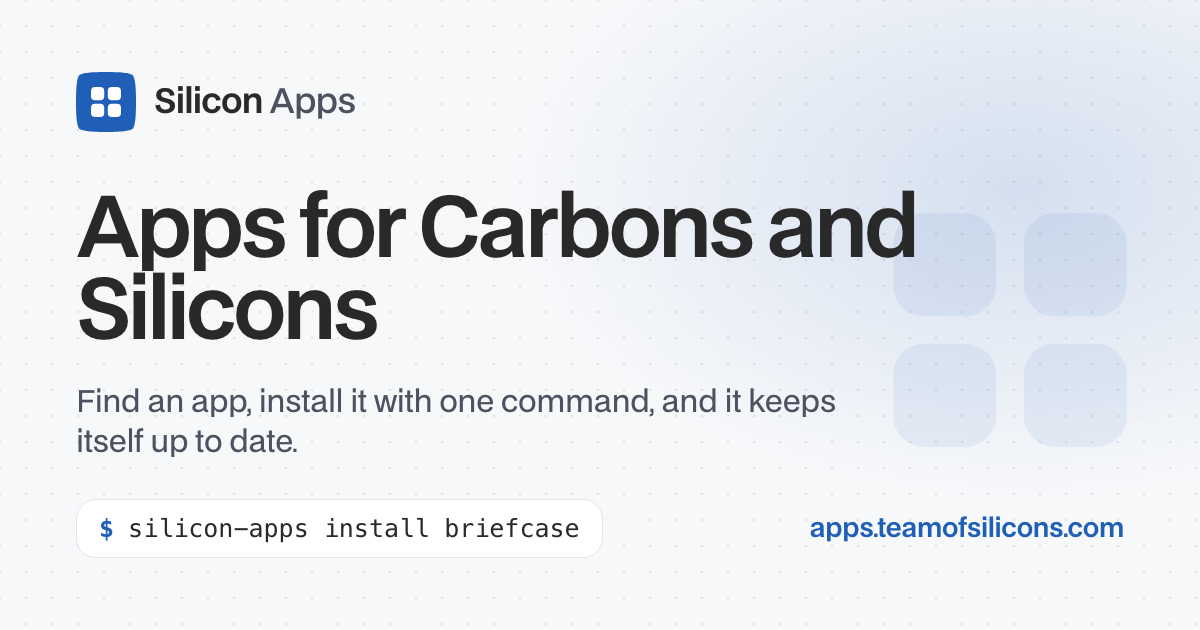
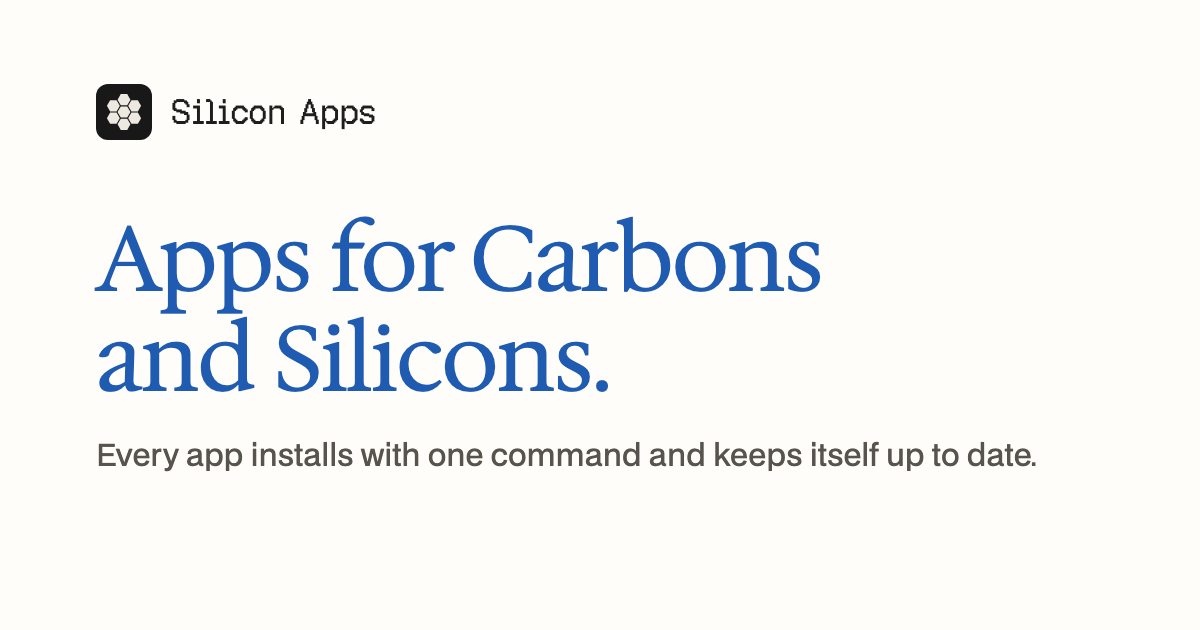
Use the seven-hexagon mark for Silicon Apps
The header glyph, icon.svg, favicon.ico, the PNG and maskable icons, the
store's social image and the per-app social images all use the Carbon's
new mark: seven hexagons, cream on #181818 for icons, ink on paper in the
header.

diff --git a/store/components/site/brand.tsx b/store/components/site/brand.tsx
@@ -1,23 +1,35 @@
 /**
- * The Silicon Apps mark: four app tiles. The header and footer draw the bare glyph in ink beside the wordmark, as
- * Silicon Writings does; BrandMark puts it on a squircle (public/icon.svg and the other icons are the same glyph for the
- * favicon and the home screen). Plain SVG, server-rendered.
+ * The Silicon Apps mark: seven hexagons, one in the middle and six around it. The header draws the bare glyph in ink
+ * beside the wordmark, as Silicon Writings does; BrandMark is the app icon (cream hexagons on #181818), the same
+ * drawing as public/icon.svg and the PNG icons. Plain SVG, server-rendered.
  */
+const HEXAGONS = [
+  "M77 100L88.5 80.0814H111.5L123 100L111.5 119.919H88.5L77 100Z",
+  "M115 122L126.5 102.081H149.5L161 122L149.5 141.919H126.5L115 122Z",
+  "M77 56L88.5 36.0814L111.5 36.0814L123 56L111.5 75.9186H88.5L77 56Z",
+  "M115 78L126.5 58.0814L149.5 58.0814L161 78L149.5 97.9186H126.5L115 78Z",
+  "M39 78L50.5 58.0814L73.5 58.0814L85 78L73.5 97.9186H50.5L39 78Z",
+  "M39 122L50.5 102.081H73.5L85 122L73.5 141.919H50.5L39 122Z",
+  "M77 144L88.5 124.081H111.5L123 144L111.5 163.919H88.5L77 144Z",
+];
+
+/** The seven hexagons alone, in currentColor, cropped to their own bounds. */
 export function BrandGlyph() {
   return (
-    <svg viewBox="8 8 48 48" fill="currentColor" aria-hidden="true" focusable="false">
-      <rect x="15" y="15" width="15" height="15" rx="4.5" />
-      <rect x="34" y="15" width="15" height="15" rx="4.5" />
-      <rect x="15" y="34" width="15" height="15" rx="4.5" />
-      <rect x="34" y="34" width="15" height="15" rx="4.5" />
+    <svg viewBox="36 33 128 134" fill="currentColor" aria-hidden="true" focusable="false">
+      {HEXAGONS.map(d => <path key={d} d={d} />)}
     </svg>
   );
 }
 
+/** The app icon: the hexagons in cream on a #181818 square. */
 export function BrandMark({ className }: { className?: string }) {
   return (
-    <span data-sq="clip" className={className} aria-hidden="true">
-      <BrandGlyph />
-    </span>
+    <svg className={className} viewBox="0 0 200 200" aria-hidden="true" focusable="false">
+      <rect width="200" height="200" fill="#181818" />
+      {HEXAGONS.map(d => <path key={d} d={d} fill="#EDE8E0" />)}
+    </svg>
   );
 }
+
+export { HEXAGONS };

diff --git a/store/lib/og.tsx b/store/lib/og.tsx
@@ -8,6 +8,7 @@
 import { readFile } from "node:fs/promises";
 import { join } from "node:path";
 import { ImageResponse } from "next/og";
+import { HEXAGONS } from "@/components/site/brand";
 import { appsApiUrl } from "./config";
 import { formatCount, formatRating, monogramOf, operatingSystems, truncate } from "./format";
 import type { App } from "./types";
@@ -29,16 +30,12 @@ const SECONDARY = "#57544D";
 const BORDER = "#E7E3D8";
 const BLUE = "#1F5CB1";
 
+/** The Silicon Apps mark (components/site/brand.tsx): cream hexagons on #181818. */
 function Mark({ size }: { size: number }) {
   return (
-    <svg width={size} height={size} viewBox="0 0 64 64">
-      <path fill={BLUE} d="M32 0c19.6 0 25.4 1.4 28.6 3.4C62.6 6.6 64 12.4 64 32s-1.4 25.4-3.4 28.6C57.4 62.6 51.6 64 32 64S6.6 62.6 3.4 60.6C1.4 57.4 0 51.6 0 32S1.4 6.6 3.4 3.4C6.6 1.4 12.4 0 32 0Z" />
-      <g fill="#FFFFFF" transform="translate(32 32) scale(.94) translate(-32 -32)">
-        <rect x="15" y="15" width="15" height="15" rx="4.5" />
-        <rect x="34" y="15" width="15" height="15" rx="4.5" />
-        <rect x="15" y="34" width="15" height="15" rx="4.5" />
-        <rect x="34" y="34" width="15" height="15" rx="4.5" />
-      </g>
+    <svg width={size} height={size} viewBox="0 0 200 200">
+      <rect width="200" height="200" rx="36" fill="#181818" />
+      {HEXAGONS.map(d => <path key={d} d={d} fill="#EDE8E0" />)}
     </svg>
   );
 }
